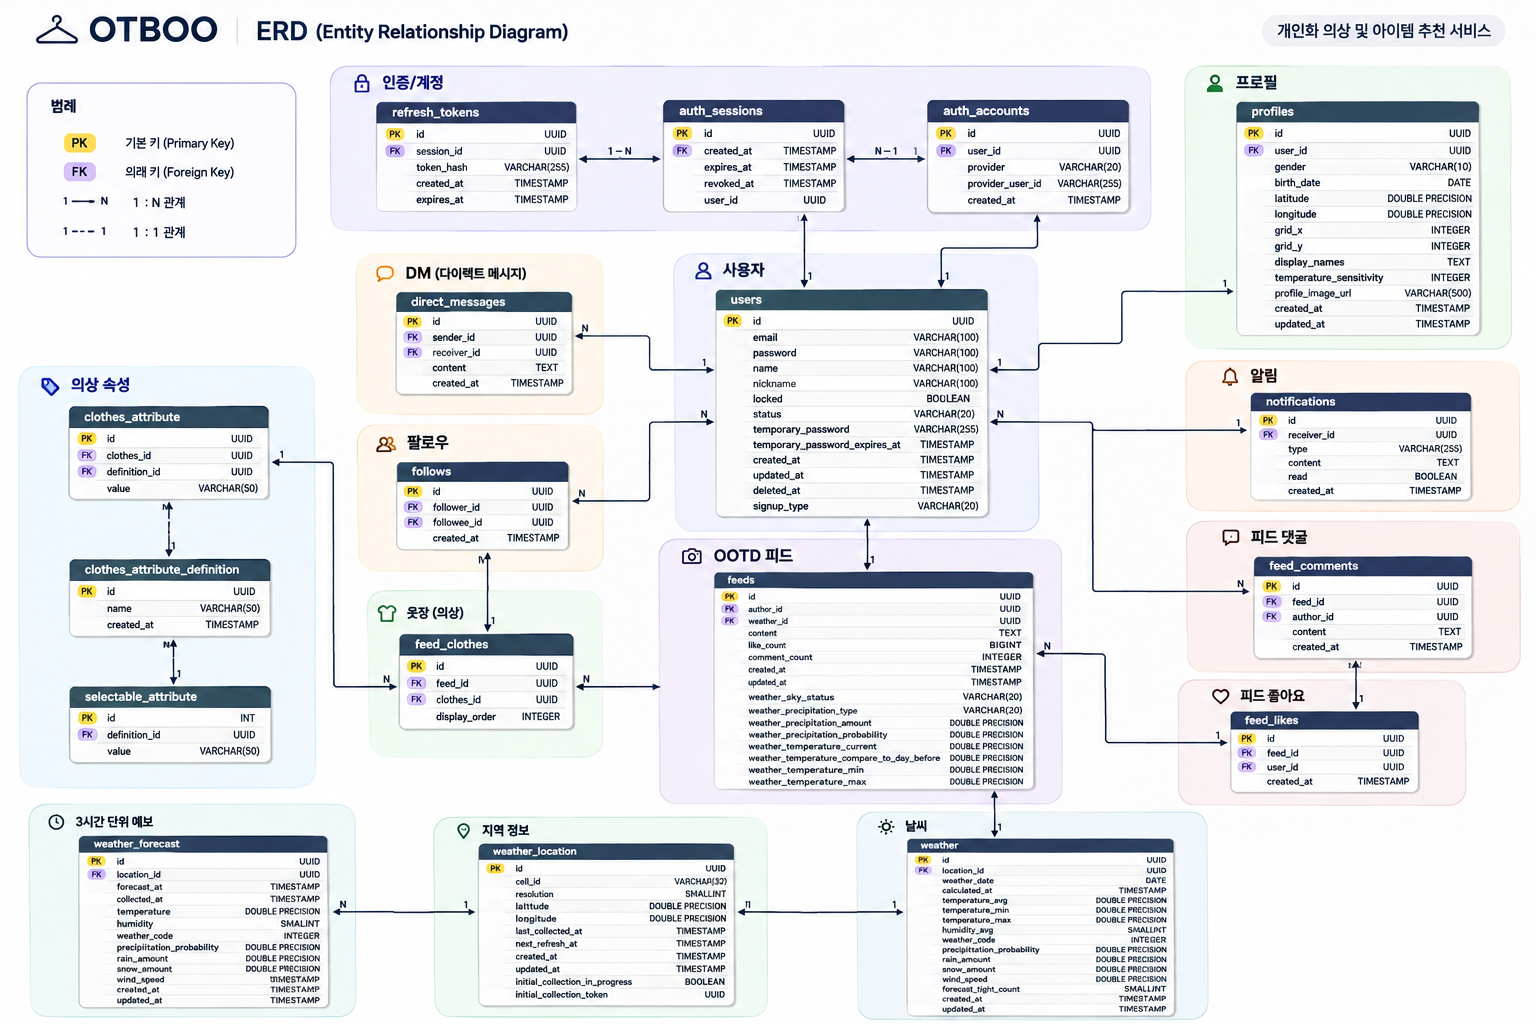
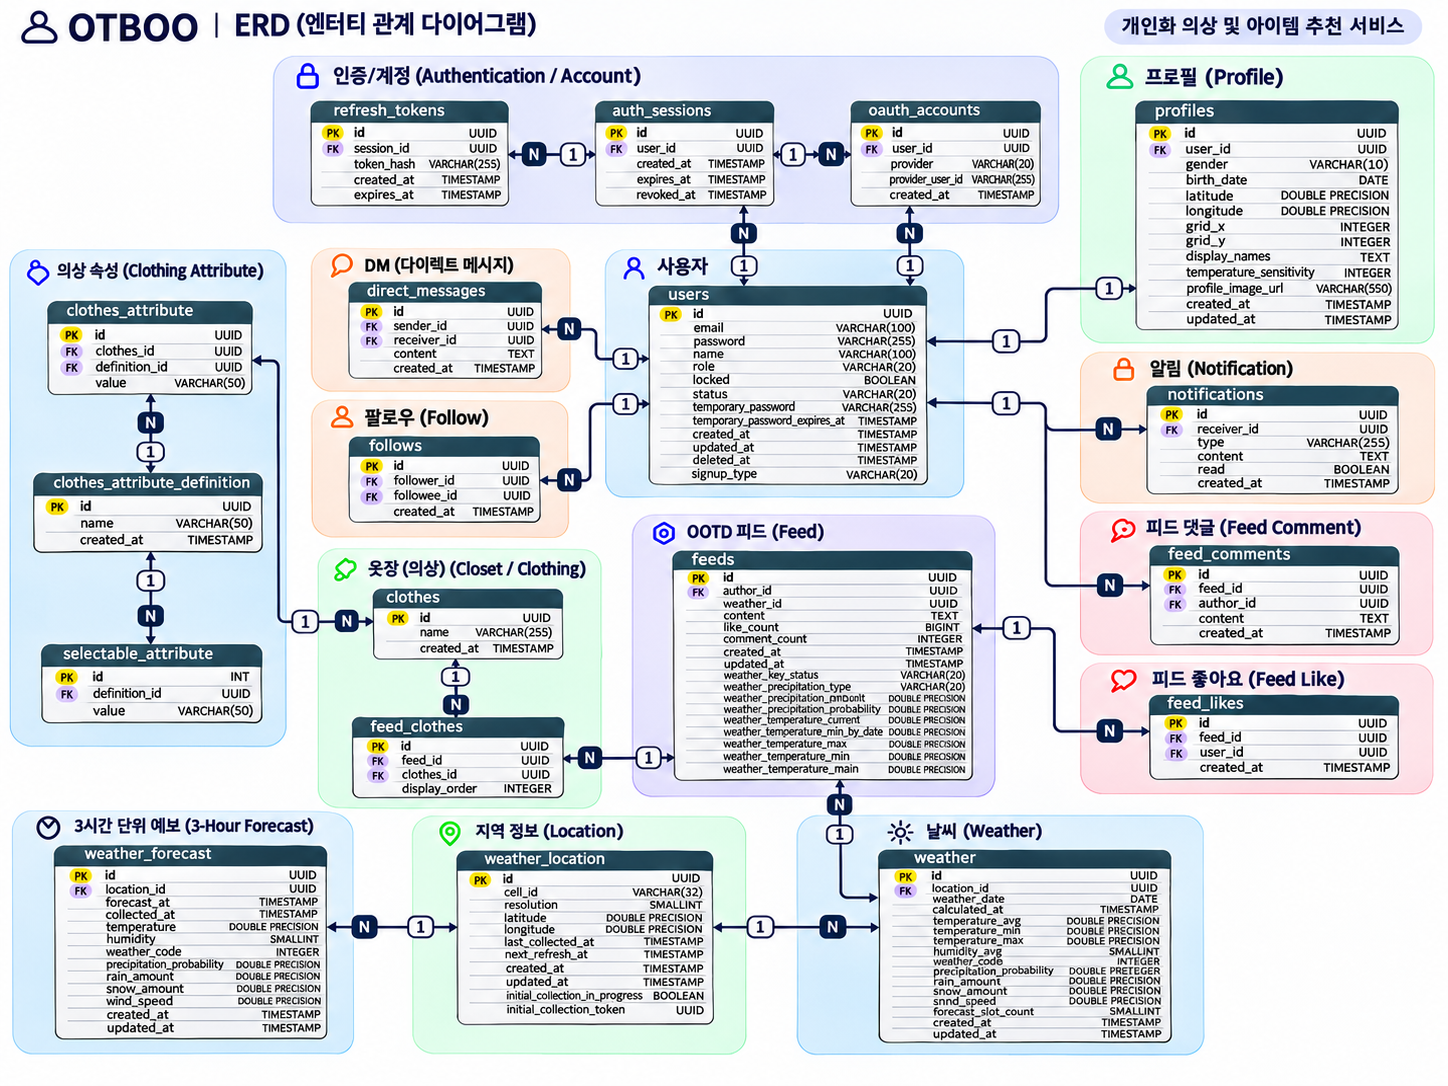
docs: erd 이미지 수정 및 발표자료 추가

diff --git a/README.md b/README.md
@@ -318,7 +318,7 @@ PostgreSQL(pgvector 포함) 및 Redis 컨테이너를 실행합니다.
 | API 명세서 | [Swagger](https://d32h6socf0ryd3.cloudfront.net/swagger-ui/index.html) |
 | 테스트 커버리지 | [Codecov](https://app.codecov.io/gh/sb13-team2-advanced/sb13-otboo-team2) |
 | CI/CD 실행 결과 | [GitHub Actions](https://github.com/sb13-team2-advanced/sb13-otboo-team2/actions/workflows/deploy.yml) |
-| 최종 발표 자료 | [📄 발표 자료 PDF](./docs/final-presentation.pdf) |
+| 최종 발표 자료 | [📄 발표 자료 PDF](./docs/2팀_옷장을부탁해_발표자료.pdf) |
 | 서비스 시연 영상 | [Google Drive](https://drive.google.com/file/d/1AKg8R_qMx3GViJMSQSkUrzyPFRAs1O6Z/view?usp=drive_link) |
 
 ---
